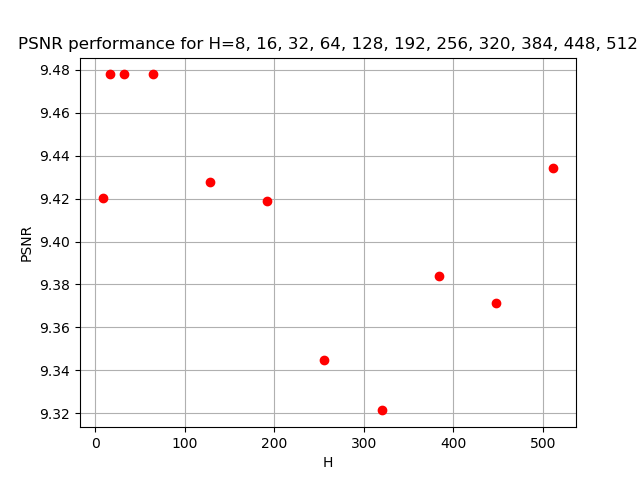
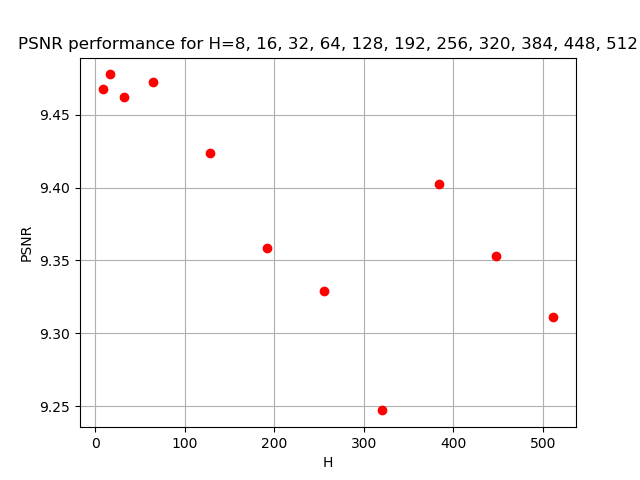
comment log statements

diff --git a/Assignment_01/assign01.py b/Assignment_01/assign01.py
@@ -8,10 +8,10 @@ import matplotlib.pyplot as plt
 
 # Hyper Parameters 
 input_size = 784
-hidden_size = 128
+# hidden_size = 128
 num_epochs = 10
 batch_size = 100
-learning_rate = 1e-5  # 0.001
+learning_rate = 1e-5
 
 # MNIST Dataset 
 train_dataset = dsets.MNIST(root='./data', 
@@ -36,9 +36,6 @@ test_loader = torch.utils.data.DataLoader(dataset=test_dataset,
 # initialize your parameters - randomly
 N = batch_size
 M = input_size
-H = hidden_size
-W1 = torch.randn(M, H)
-W2 = torch.randn(H, M)
 
 
 def non(X):
@@ -57,7 +54,10 @@ PSNR_values = []
 
 # Train the Model
 for H in H_values:
-    print('training and testing with H =', H, '...')
+    # init weight matrices
+    W1 = torch.randn(M, H)
+    W2 = torch.randn(H, M)
+    # print('training and testing with H =', H, '...')
     for epoch in range(num_epochs):
         # print('H =', H, 'total_loss_epoch (', epoch, ') = ', (total_loss_epoch/batch_size), '\tdiff_prev = ', (total_loss_epoch - total_loss_epoch_prev))
         # total_loss_epoch_prev = total_loss_epoch
@@ -69,7 +69,6 @@ for H in H_values:
             X = targets  # for convenience with formulas
 
             # forward pass
-            # X_hat = torch.mm(non(torch.mm(X, W1)), W2)
             XW1 = torch.mm(X, W1)
             nonXW1 = non(XW1)
             nonXW1W2 = torch.mm(nonXW1, W2)
@@ -116,14 +115,11 @@ for H in H_values:
         avg_psnr += psnr
 
     avg_psnr = avg_psnr / len(test_loader)
-    print('H =', H, "===> Avg. PSNR: {:.4f} dB".format(avg_psnr))
+    # print('H =', H, "===> Avg. PSNR: {:.4f} dB".format(avg_psnr))
     PSNR_values.append(avg_psnr)
-    # reset weight matrices
-    W1 = torch.randn(M, H)
-    W2 = torch.randn(H, M)
 
 # plot predictions
-print('plotting values now...')
+# print('plotting values now...')
 plt.plot(H_values, PSNR_values, 'ro')
 plt.xlabel('H')
 plt.ylabel('PSNR')
@@ -131,4 +127,4 @@ plt.title('PSNR performance for H=' + ', '.join(str(e) for e in H_values))
 plt.grid(True)
 #plt.show()
 plt.savefig('psnr_performance.png')
-print('done.')
+# print('done.')
